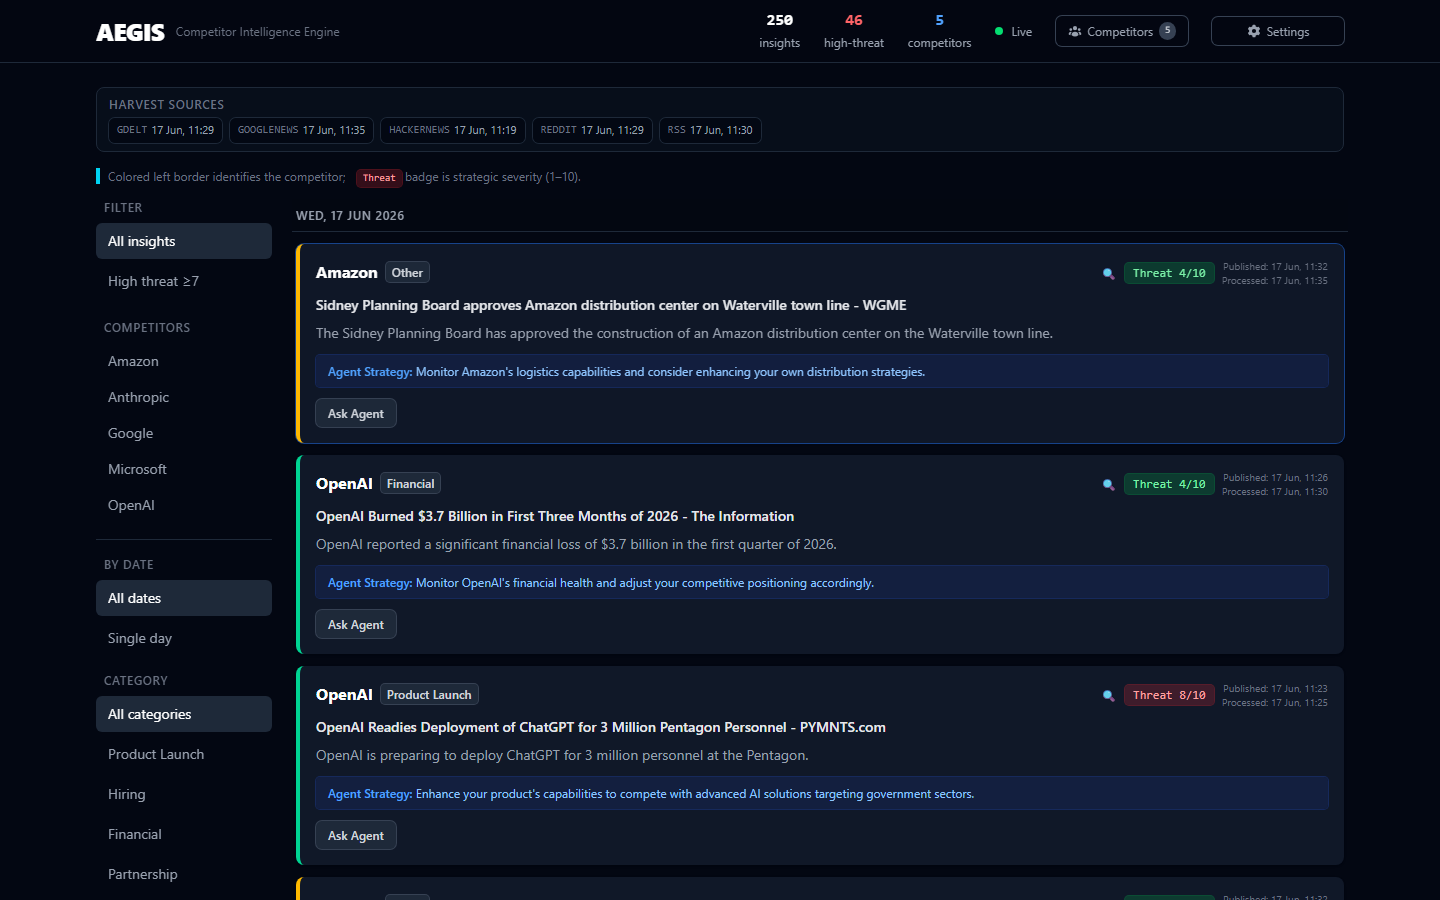
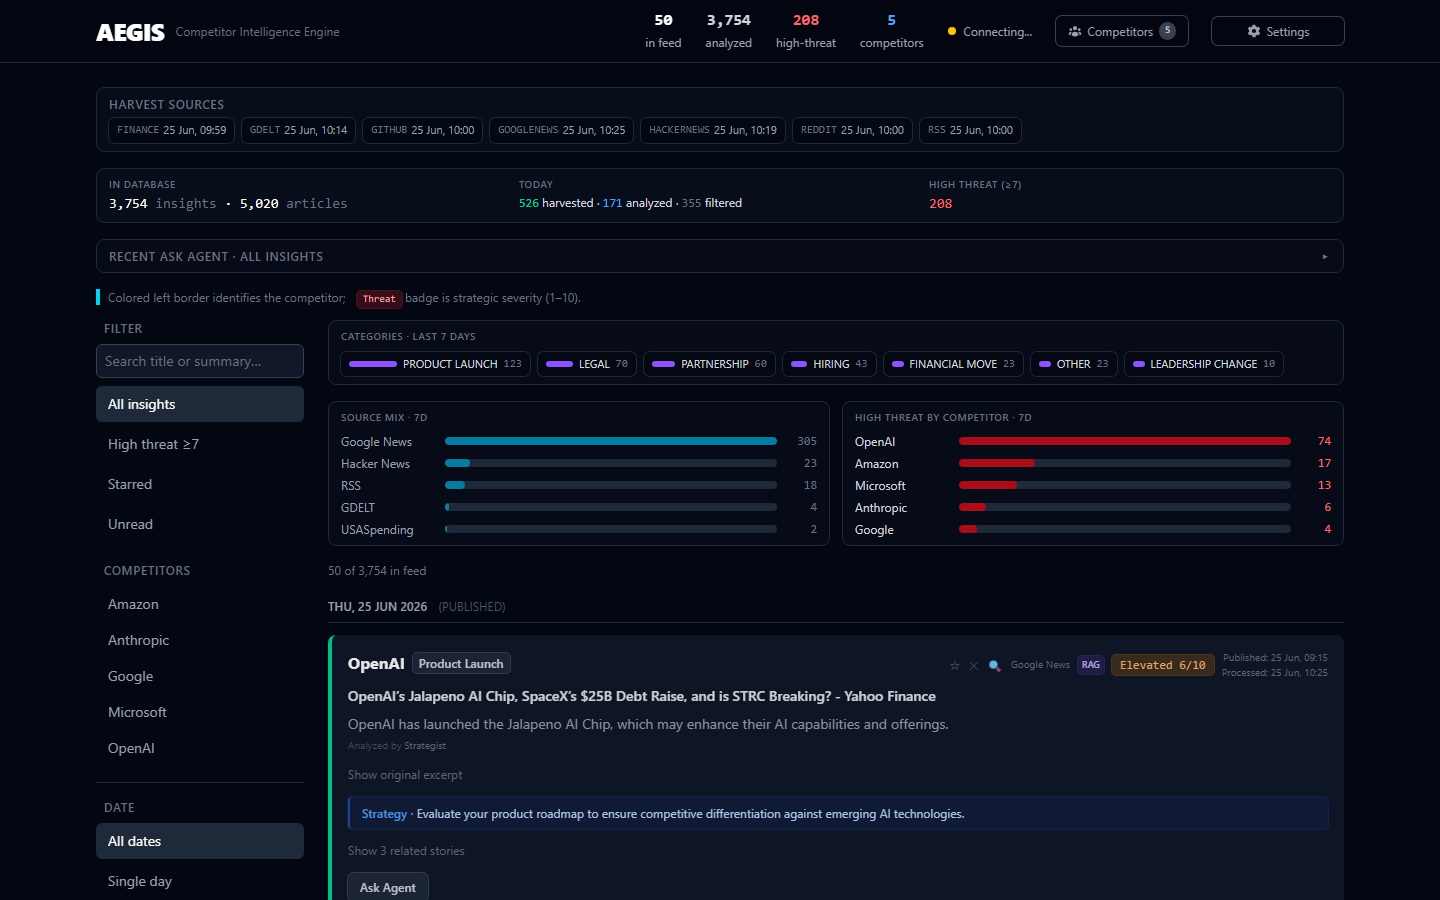
chore: Render SPA routing, local override example, and README screenshots
Add Vue Router fallback for Render static site, document feed UX and threat scoring,
and refresh dashboard, competitor, and Ask Agent screenshots.

diff --git a/README.md b/README.md
@@ -30,7 +30,7 @@ Real-time **competitor intelligence** platform: scheduled harvesters pull public
 
 **Problem:** Product, strategy, and marketing teams need a single place to watch **competitive moves** (launches, hiring, partnerships, filings) without drowning in raw feeds.
 
-**Outcome:** Aegis **collects** heterogeneous sources into one schema, **reduces noise** with an LLM gate, **classifies and scores** threat, **streams** results so operators see high-signal updates as they land, and lets them **ask strategic questions** on any item—with optional **RAG** grounding answers in your indexed news corpus and showing **cited sources** in the UI.
+**Outcome:** Aegis **collects** heterogeneous sources into one schema, **reduces noise** with an LLM gate, **classifies and scores** threat, **streams** results so operators see high-signal updates as they land, and surfaces them in a **paginated, filterable dashboard** with honest DB counts—plus **Ask Agent** strategic Q&A on any item, with optional **RAG** grounding and cited sources.
 
 ---
 
@@ -43,7 +43,7 @@ Real-time **competitor intelligence** platform: scheduled harvesters pull public
 | **Ingestion** | Scheduled harvesters (RSS, GDELT, Reddit, Hacker News, SEC EDAR/EDGAR-style search, GitHub, Google News, financial/contract/industry feeds per `application.yml`). |
 | **Persistence** | Raw articles in PostgreSQL (`pgvector` for RAG); Flyway-managed schema (V1–V6). |
 | **AI pipeline** | Noise canceler → market analyst (category) → strategist (threat 1–10 + advice); failures never break the chain. |
-| **Realtime UX** | SSE insight stream + REST for history, threats, deep-dive, competitors, harvest status, settings. |
+| **Realtime UX** | SSE insight stream + paginated REST feed (`/feed`, `/stats`, `/analytics`), filters, competitor drill-down, harvest status, settings. |
 | **Ask Agent + RAG** | Per-article deep-dive Q&A with pgvector retrieval over harvested news; cited sources in API + UI. |
 | **Configuration** | Env-based DB, OpenAI key (server + optional user override in UI), tracked competitors, RAG feature flags. |
 | **Local run** | Docker Compose (Postgres + API + Nginx SPA). |
@@ -74,8 +74,10 @@ Real-time **competitor intelligence** platform: scheduled harvesters pull public
 - **SSE-first** UI instead of polling-only dashboards
 - **Agent-shaped** orchestration with isolated `@Service` agents and safe fallbacks
 - **RAG over harvested news** — Spring AI `PgVectorStore`, chunking/embeddings, cited sources in API + UI
+- **Honest at scale** — paginated feed with DB-backed totals, pipeline stats, and server-side search (title + summary)
 - **Contract alignment**: Java records ↔ TypeScript interfaces
-- **Infrastructure**: Docker Compose locally (`pgvector/pgvector:pg16`); **Blueprint** for Render + Neon
+- **CI** — GitHub Actions runs `mvn test` + `npm run build` + Vitest on push/PR
+- **Infrastructure**: Docker Compose locally (`pgvector/pgvector:pg16`); **Blueprint** for Render + Neon (SPA rewrites for Vue Router)
 
 ---
 
@@ -90,7 +92,7 @@ Real-time **competitor intelligence** platform: scheduled harvesters pull public
 | Realtime | `Flux<ServerSentEvent<T>>`, Pinia + `useSse.ts` (`EventSource`) |
 | Local infra | Docker Compose, Nginx (frontend container proxies `/api` to backend) |
 | Cloud | Render (`render.yaml`) + Neon Postgres |
-| Testing | JUnit 5 + AssertJ + Mockito; Vitest; Playwright (e2e) |
+| Testing | JUnit 5 + AssertJ + Mockito; Vitest; Playwright (e2e); GitHub Actions CI |
 
 ---
 
@@ -314,14 +316,18 @@ Users can **PUT** `/api/settings/openai-key` to override; **DELETE** `/api/setti
 ├── frontend/
 │   ├── Dockerfile
 │   ├── nginx.conf
+│   ├── public/_redirects      # SPA fallback (Render + static hosts)
 │   ├── scripts/capture-readme-screenshots.mjs
 │   └── src/
-│       ├── components/      # ThreatCard (Ask Agent, sources, history)
-│       ├── composables/useSse.ts
+│       ├── components/        # ThreatCard, InsightFeed*, PipelineStatsBar, analytics panels
+│       ├── composables/       # useSse.ts, useInsightFeed.ts, useFeedFilters.ts
+│       ├── lib/               # insightLabels.ts, categoryLabels.ts
 │       ├── stores/
 │       ├── types/insight.ts
-│       └── views/
-├── docker-compose.yml       # postgres: pgvector/pgvector:pg16
+│       └── views/             # Dashboard, CompetitorView
+├── .github/workflows/ci.yml
+├── docker-compose.yml         # postgres: pgvector/pgvector:pg16
+├── docker-compose.override.yml.example  # optional local Postgres on 5434
 ├── docs/screenshots/        # README images (npm run screenshots)
 ├── render.yaml              # Render Blueprint
 └── .env.example
@@ -377,7 +383,9 @@ docker compose up --build
 |---------|-----|
 | Frontend | http://localhost:3000 |
 | Backend | http://localhost:8080 |
-| Postgres | localhost:5432 |
+| Postgres | localhost:5432 (or **5434** if using `docker-compose.override.yml` when 5432 is busy) |
+
+**Port conflict:** If another Postgres uses 5432, copy `docker-compose.override.yml.example` to `docker-compose.override.yml` (gitignored) to bind Aegis Postgres on 5434.
 
 ### 3) Run without Docker
 
@@ -406,10 +414,16 @@ Vite dev server proxies `/api` to `http://localhost:8080` (see `vite.config.ts`)
 | Method | Endpoint | Purpose |
 |--------|----------|---------|
 | `GET` | `/api/insights/stream` | SSE stream of insights |
-| `GET` | `/api/insights/latest?limit=20` | Recent insights |
-| `GET` | `/api/insights/threats?minLevel=7` | Higher-threat filter |
+| `GET` | `/api/insights/feed` | Paginated feed (`competitor`, `category`, `minThreat`, `search`, `dateFrom`, `dateTo`, `sort`, `offset`, `limit`, `ids`) |
+| `GET` | `/api/insights/stats` | DB totals + today harvested/analyzed/filtered |
+| `GET` | `/api/insights/analytics?days=7` | Category/source mix + high-threat by competitor |
+| `GET` | `/api/insights/competitor/{name}/summary` | Per-competitor breakdown |
+| `GET` | `/api/insights/{newsId}/related` | RAG-related stories for clustering/cards |
+| `GET` | `/api/insights/latest?limit=20` | Recent insights (per competitor cap) |
+| `GET` | `/api/insights/threats?minLevel=7` | Paginated high-threat feed |
 | `POST` | `/api/insights/deep-dive` | LLM deep-dive on a news item (returns analysis + cited sources) |
-| `GET` | `/api/insights/deep-dive/history?newsId=` | Prior Ask Agent Q&A for that article (includes persisted sources) |
+| `GET` | `/api/insights/deep-dive/history?newsId=` | Prior Ask Agent Q&A for that article |
+| `GET` | `/api/insights/deep-dive/history/recent` | Last 30 Ask Agent queries across all articles |
 | `GET` | `/api/settings/status` | OpenAI configuration flags |
 | `PUT` | `/api/settings/openai-key` | Set runtime user key |
 | `DELETE` | `/api/settings/openai-key` | Clear user key (revert to server key if set) |
@@ -450,6 +464,36 @@ Example deep-dive response:
 ```
 
 Additional routes exist for competitors and harvest status—see `backend/.../controller/`.
+
+### Threat scoring
+
+| Score | UI tier | Meaning |
+|-------|---------|---------|
+| 9–10 | Critical | Existential / direct niche threat (Strategist LLM) |
+| 7–8 | High | Matches **High threat ≥7** filter and API `minLevel=7` |
+| 5–6 | Elevated | Monitor and plan |
+| 1–4 | Low | Awareness only |
+
+Post-processing floors: `LEGAL` ≥5, `PARTNERSHIP` ≥4, `EDGAR` source ≥5 (`ThreatLevelAdjuster`).
+
+### Dashboard feed UX
+
+- **Paginated feed** — `GET /api/insights/feed` with honest `total` / `hasMore`; SSE prepends new items.
+- **Filters** — competitor, category, date (7d/30d/custom), search, sort, high-threat.
+- **Similar headlines** — title-token clusters in the feed (`clusterKey`); not the same as per-card **RAG** related stories.
+- **Read / star / dismiss** — stored in **browser localStorage** only; unread filter applies to the **loaded feed**, not the full DB.
+- **Starred** — IDs from localStorage, items fetched via `GET /feed?ids=1,2,3`.
+- **Competitor page** — `/competitor/:name` (SPA; `public/_redirects` + Render rewrite).
+
+Example feed response:
+
+```json
+{
+  "items": [{ "id": 1, "threatLevel": 8, "clusterKey": null, "ragAvailable": true }],
+  "total": 3721,
+  "hasMore": true
+}
+```
 
 ---
 
@@ -497,17 +541,27 @@ flowchart LR
 
 ### Dashboard
 
-Live competitor feed with filters, harvest status, threat scoring, and **Ask Agent** on each card.
+Paginated competitor feed with **honest DB counts**, sidebar filters (search, high-threat, starred, date range), pipeline stats, analytics panel, and **Ask Agent** on each card. Search runs server-side against article titles and AI summaries (~350ms debounce).
 
-![Aegis dashboard — competitor intelligence feed](docs/screenshots/dashboard.png)
+![Aegis dashboard — paginated feed, filters, pipeline stats, and threat cards](docs/screenshots/dashboard.png)
+
+### Competitor drill-down
+
+Per-competitor summary (category/source mix, high-threat count) and threat-sorted insight list at `/competitor/:name`.
+
+![Competitor intelligence page — OpenAI summary and threat-sorted feed](docs/screenshots/competitor.png)
 
 ### Ask Agent with RAG sources and history
 
-Click **Ask Agent** on any threat card. Prior questions are selectable; the full answer and **Sources used** panel restore from `deep_dive_log`.
+Click **Ask Agent** on any threat card. Prior questions are selectable; the full answer and **Sources used** panel restore from `deep_dive_log`. Per-card **semantically related (RAG)** stories are separate from feed **similar headlines** clusters.
 
 ![Ask Agent — previous asks, RAG citations, and source links](docs/screenshots/ask-agent.png)
 
-*To refresh screenshots after UI changes:* `cd frontend && npm run screenshots` (requires the Docker stack at `localhost:3000` / API at `localhost:8080`).
+*Refresh after UI changes (Docker stack at `localhost:3000`, API at `localhost:8080`):*
+
+```bash
+cd frontend && npm run screenshots
+```
 
 ---
 
@@ -530,15 +584,17 @@ Migrations: `backend/src/main/resources/db/migration/` (V1–V6).
 # Backend
 cd backend && mvn test
 
-# Frontend unit
-cd frontend && npm run test
+# Frontend unit + typecheck (also runs in CI)
+cd frontend && npm run build && npm run test
 
-# Frontend e2e
+# Frontend e2e (Playwright; starts vite preview)
 cd frontend && npm run test:e2e
 
 # Refresh README screenshots (Docker stack running)
 cd frontend && npm run screenshots
 ```
+
+**CI:** `.github/workflows/ci.yml` runs backend tests and frontend build/test on push and pull requests to `main`.
 
 ---
 
@@ -574,6 +630,7 @@ cd frontend && npm run screenshots
    - **`AEGIS_RAG_BACKFILL_ON_STARTUP`** — `true` once for initial index, then `false`
 5. Wait for deploy (first API Docker build may take several minutes).
 6. Open the dashboard URL; optional Settings override for OpenAI key.
+7. **SPA routing:** the static site ships `public/_redirects` and `render.yaml` includes a `/* → /index.html` rewrite so `/competitor/:name` works on refresh.
 
 ### URLs and CORS
 
@@ -594,12 +651,13 @@ cd frontend && npm run screenshots
 |------|---------|
 | **Cross-competitor RAG** | Retrieve related context across all tracked competitors, not just the current article’s competitor. |
 | **AuthN / multi-tenant** | Per-tenant competitor lists and insight isolation; OAuth2 or API keys for B2B. |
+| **Synced read/star state** | Server-backed bookmarks and read receipts (today: browser localStorage only). |
+| **Full-text search** | Search article body and Ask Agent history, not just title + summary. |
 | **Job queue** | Move heavy harvest + agent work off the web thread entirely (e.g. Redis/SQS) for burst handling. |
 | **Observability** | Structured logging correlation IDs, metrics (Micrometer + Prometheus), tracing (OpenTelemetry). |
 | **Connector SDK** | Declarative source config (YAML) with shared `HarvesterSupport` patterns to add feeds without a new class each time. |
 | **Alerting** | Webhooks or email when `threatLevel` crosses thresholds or for specific categories. |
-| **Billing / quotas** | Per-key rate limits and usage dashboards for shared deployments. |
-| **Hardening** | Stricter CORS allowlist, secret rotation, dependency audit in CI. |
+| **Data retention** | Scheduled archival/cleanup for large Neon datasets. |
 
 ---
 

diff --git a/CLAUDE.md b/CLAUDE.md
@@ -12,7 +12,7 @@ postgres   PostgreSQL 16 (Docker)
 
 ## Java Backend Standards
 
-- **Records for DTOs** — `InsightEvent`, `NewsArticle`, `DeepDiveRequest` are Java records. Never use classes for data transfer.
+- **Records for DTOs** — `InsightEvent`, `InsightFeedPage`, `InsightStats`, `NewsArticle`, `DeepDiveRequest`, etc. Never use classes for data transfer.
 - **Entities** — Use `@Data @Builder @NoArgsConstructor @AllArgsConstructor` (Lombok). Never use `@Data` on entities with bidirectional relations without `@EqualsAndHashCode(exclude=...)`.
 - **Constructor injection** — Never `@Autowired` field injection.
 - **Reactive** — All HTTP client calls use `WebClient`. Never `RestTemplate`. SSE endpoint returns `Flux<ServerSentEvent<T>>`.
@@ -27,7 +27,9 @@ postgres   PostgreSQL 16 (Docker)
 - **Type-safe DTOs** — `src/types/insight.ts` interfaces must exactly mirror Java records. Any backend change requires a matching frontend type update.
 - **Pinia stores** — Composition API style (`defineStore(() => {})`). No Options API stores.
 - **`v-memo`** on `ThreatCard` — Only re-render when `id`, `isNew`, or `threatLevel` changes.
-- **Composables** — SSE logic lives in `useSse.ts`. No raw `EventSource` in components.
+- **Composables** — SSE in `useSse.ts`; feed fetch/filters in `useInsightFeed.ts` + `useFeedFilters.ts`; grouping in `useFeedGrouping.ts`. No raw `EventSource` in components.
+- **Feed UI** — `InsightFeed.vue` orchestrates `InsightFeedSidebar` + `InsightFeedList`. Read/star/dismiss in `insightStore` (localStorage).
+- **Labels** — `src/lib/insightLabels.ts` (threat tiers, source labels); `src/lib/categoryLabels.ts`.
 - **No `any`** — TypeScript strict mode is on. Use `unknown` + type guards when necessary.
 
 ## Agent Handoff Protocol
@@ -54,6 +56,7 @@ Rules:
 ## Docker
 
 - `docker-compose.yml` is the canonical run target.
+- Optional `docker-compose.override.yml` (gitignored; see `docker-compose.override.yml.example`) for Postgres port 5434.
 - Always use `docker compose up --build` for a clean rebuild.
 - The backend waits for the Postgres `healthcheck` before starting (prevents Flyway race condition).
 - Never hardcode credentials — use `.env` file (copy from `.env.example`).
